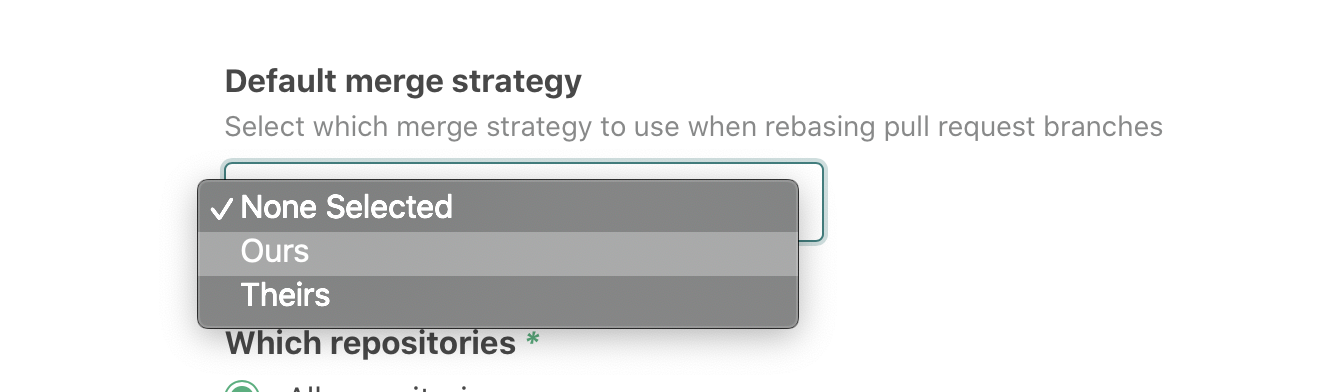
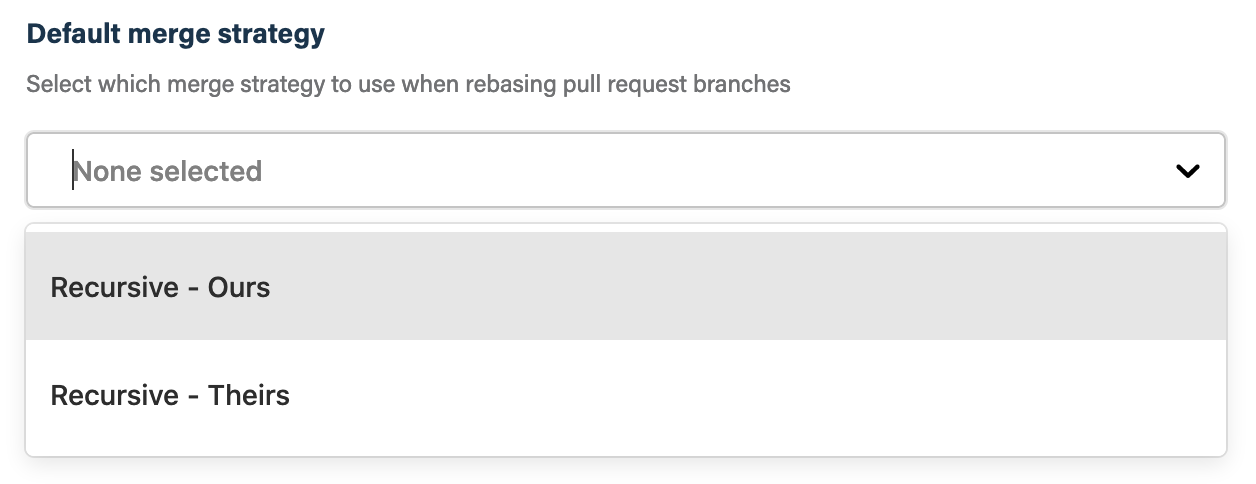
Update documentation
Reorganize documentation into README, INFO, and SETTINGS.

diff --git a/skill.ts b/skill.ts
@@ -27,12 +27,9 @@ export const Skill = skill<RebaseConfiguration & { repos: any }>({
 	name: "github-auto-rebase-skill",
 	namespace: "atomist",
 	displayName: "Auto-Rebase Pull Requests",
-	author: "Atomist",
+	description:
+		"Rebase a pull request branch when there are pushes to the base branch",
 	categories: [Category.RepoManagement],
-	homepageUrl: "https://github.com/atomist-skills/github-auto-rebase-skill",
-	repositoryUrl:
-		"https://github.com/atomist-skills/github-auto-rebase-skill.git",
-	license: "Apache-2.0",
 
 	runtime: {
 		memory: 1024,

diff --git a/README.md b/README.md
@@ -1,104 +1,81 @@
 # `atomist/github-auto-rebase-skill`
 
-<!--<!---atomist-skill-description:start--->
+Rebase a pull request branch when there are pushes to the base branch.
 
-Rebase a pull request branch when there are pushes to the base branch
+:sparkles: [_**View this skill in the Atomist Skills Catalog**_][atomist-skill]
+to enable this skill on your repositories. :sparkles:
 
-<!---atomist-skill-description:end--->
+See the [Atomist website][atomist] for general information about Atomist Skills
+and the [Atomist documentation site][atomist-doc] for instructions on how to get
+started using Atomist Skills.
 
----
+[atomist-skill]:
+    https://go.atomist.com/catalog/skills/atomist/github-auto-rebase-skill
+    "Atomist Skills Catalog - Automate All Your Software Tasks"
+[atomist-doc]: https://docs.atomist.com/ "Atomist Documentation"
 
-<!---atomist-skill-long_description:start--->
+## Contributing
 
-Automatically rebase a pull request branch if there are pushes to the base
-branch. Keep pull request branches current with the base branch to identify
-merge issues and avoid a surprise when you go to merge. You don't have to think
-about your pull request branches any more — this skill keeps them in harmony
-with the base branch.
+Contributions to this project from community members are encouraged and
+appreciated. Please review the [Contributing Guidelines](CONTRIBUTING.md) for
+more information. Also see the [Development](#development) section in this
+document.
 
-<!---atomist-skill-long_description:end--->
+## Code of conduct
 
----
+This project is governed by the [Code of Conduct](CODE_OF_CONDUCT.md). You are
+expected to act in accordance with this code by participating. Please report any
+unacceptable behavior to code-of-conduct@atomist.com.
 
-<!---atomist-skill-readme:start--->
+## Connect
 
-# What it's useful for
+Follow [@atomist][atomist-twitter] on Twitter and [The Atomist
+Blog][atomist-blog].
 
-With this skill you can automatically rebase pull request branches when pushes
-to base branch happen.
+[atomist-twitter]: https://twitter.com/atomist "Atomist on Twitter"
+[atomist-blog]: https://blog.atomist.com/ "The Atomist Blog"
 
-For example, if open pull request branch `v2` has base branch `master`, and
-someone pushes a change to `master`, then `v2` will be rebased with the new
-commit(s) to `master`.
+## Support
 
-This approach makes it easy for pull request authors (or anyone with permissions
-in the repository) to flag a pull request for auto-rebase, simply by adding the
-`auto-rebase:on-push` label.
+General support questions should be discussed in the `#support` channel in the
+[Atomist community Slack workspace][slack].
 
-Alternatively you can request a rebase of pull request at any time by commenting
-with `/rebase` in a pull request comment.
+If you find a problem, please create an [issue](../../issues).
 
-# Before you get started
+## Development
 
-Connect and configure these integrations:
+You will need to install [Node.js][node] to build and test this project.
 
-1. **GitHub**
-2. **Slack or Microsoft Teams**
+[node]: https://nodejs.org/ "Node.js"
 
-The **GitHub** integration must be configured in order to use this skill. At
-least one repository must be selected. We recommend connecting the **Slack** or
-**Microsoft Teams** integration.
+### Build and test
 
-# How to configure
+Install dependencies.
 
-1. **Select the merge strategy**
+```
+$ npm ci
+```
 
-    The selected merge strategy will be used for the rebase.
+Use the `build` package script to compile, test, lint, and build the
+documentation.
 
-    ![Default merge-strategy](docs/images/default-merge-strategy.png)
+```
+$ npm run build
+```
 
-    You can select one of the options:
+### Release
 
-    - **Ours** — This option forces conflicting hunks to be auto-resolved
-      cleanly by favoring 'our' version. Changes from the other tree that do not
-      conflict with our side are reflected in the merge result.
-    - **Theirs** — This is the opposite of **Ours**.
+Releases are created by pushing a release [semantic version][semver] tag to the
+repository, Atomist Skills take care of the rest.
 
-    Review the [git documentation](https://git-scm.com/docs/merge-strategies)
-    for details on these options.
+To make this skill globally available, set its maturity to "stable" via the set
+maturity drop-down in its Atomist Community Slack channel.
 
-2. **Determine repository scope**
-
-    ![Repository filter](docs/images/repo-filter.png)
-
-    By default, this skill will be enabled for all repositories in all
-    organizations you have connected.
-
-    To restrict the organizations or specific repositories on which the skill
-    will run, you can explicitly choose organization(s) and repositories.
-
-# How to use Pull Request auto-rebase
-
-1. **Configure the skill, set default auto-rebase strategy**
-
-2. **For every new pull request raised, manually add the `auto-rebase:on-push`
-   label to enable auto-rebase**
-
-3. **Alternatively you can comment with `/rebase` to request an ad-hoc rebase of
-   a pull request**
-
-4. **Enjoy not having to manually rebase your pull request!**
-
-To create feature requests or bug reports, create an
-[issue in the repository for this skill](https://github.com/atomist-skills/github-auto-rebase-skill/issues).
-See the [code](https://github.com/atomist-skills/github-auto-rebase-skill) for
-the skill.
-
-<!---atomist-skill-readme:end--->
+[semver]: https://semver.org/ "Semantic Version"
 
 ---
 
 Created by [Atomist][atomist]. Need Help? [Join our Slack workspace][slack].
 
-[atomist]: https://atomist.com/ "Atomist - How Teams Deliver Software"
+[atomist]: https://atomist.com/ "Atomist - Automate All the Software Things"
 [slack]: https://join.atomist.com/ "Atomist Community Slack"

diff --git a/SETTINGS.md b/SETTINGS.md
@@ -1,0 +1,44 @@
+## Before you get started
+
+Connect and configure these integrations:
+
+1.  [**GitHub**](https://go.atomist.com/catalog/integration/github "GitHub Integration")
+    _(required)_
+1.  [**Slack**](https://go.atomist.com/catalog/integration/slack "Slack Integration")
+    or
+    [**Microsoft Teams**](https://go.atomist.com/catalog/integration/microsoft-teams "Microsoft Teams Integration")
+    _(optional)_
+
+## How to configure
+
+1.  **Select the merge strategy**
+
+    The selected merge strategy will be used for the rebase.
+
+    ![Default merge-strategy](docs/images/default-merge-strategy.png)
+
+    You can select one of the options:
+
+    -   **Recursive - Ours** — This option forces conflicting hunks to be
+        auto-resolved cleanly by favoring 'our' version. Changes from the other
+        tree that do not conflict with our side are reflected in the merge
+        result.
+    -   **Recursive - Theirs** — This is the opposite of **Ours**.
+
+    Review the [git documentation](https://git-scm.com/docs/merge-strategies)
+    for details on these options.
+
+1.  **Determine repository scope**
+
+    ![Repository filter](docs/images/repo-filter.png)
+
+    By default, this skill will be enabled for all repositories in all
+    organizations you have connected.
+
+    To restrict the organizations or specific repositories on which the skill
+    will run, you can explicitly choose organizations and repositories.
+
+1.  **Activate the skill**
+
+    Save your configuration and activate the skill by clicking the "Enable
+    skill" button.

diff --git a/INFO.md b/INFO.md
@@ -1,0 +1,26 @@
+Keep pull request branches up-to-date with the base branch so conflicts are
+found early and you can avoid surprises when you try to merge. Stop juggling
+multiple feature branches, manually rebasing as other pull requests are merged
+or other commits are pushed to the default branch. You don't have to think about
+your pull request branches any more&mdash;this skill keeps them in harmony with
+the base branch.
+
+-   Automatically rebase pull request branches when there are new commits pushed
+    to base branch
+-   Choose your preferred merge strategy
+-   Select which pull requests get automatically rebased using the
+    <span style="border-radius:24px;background-color:rgb(14,138,22);box-shadow:none;box-sizing:border-box;color:rgb(255,255,255);display:inline-block;font-size:12px;font-weight:500;line-height:18px;margin-bottom:2px;margin-left:0px;margin-right:2px;margin-top:2px;overflow-wrap:break-word;padding-bottom:0px;padding-left:7px;padding-right:7px;padding-top:0px;">auto-rebase:on-push</span>
+    label
+-   Trigger a rebase of any pull request at any time by adding the comment
+    `/rebase` to it
+
+For example, if open pull request branch `feature-x` has base branch `main`, and
+someone pushes new commits to `main`, then `feature-x` will be rebased onto the
+new commits to `main`.
+
+This skill will add the labels it uses to manage rebase configuration to each
+repository it is enabled on.
+
+### Rebase pull request branch when new commits are pushed to base branch
+
+![Rebase pull request](docs/images/rebase-pr.png)
